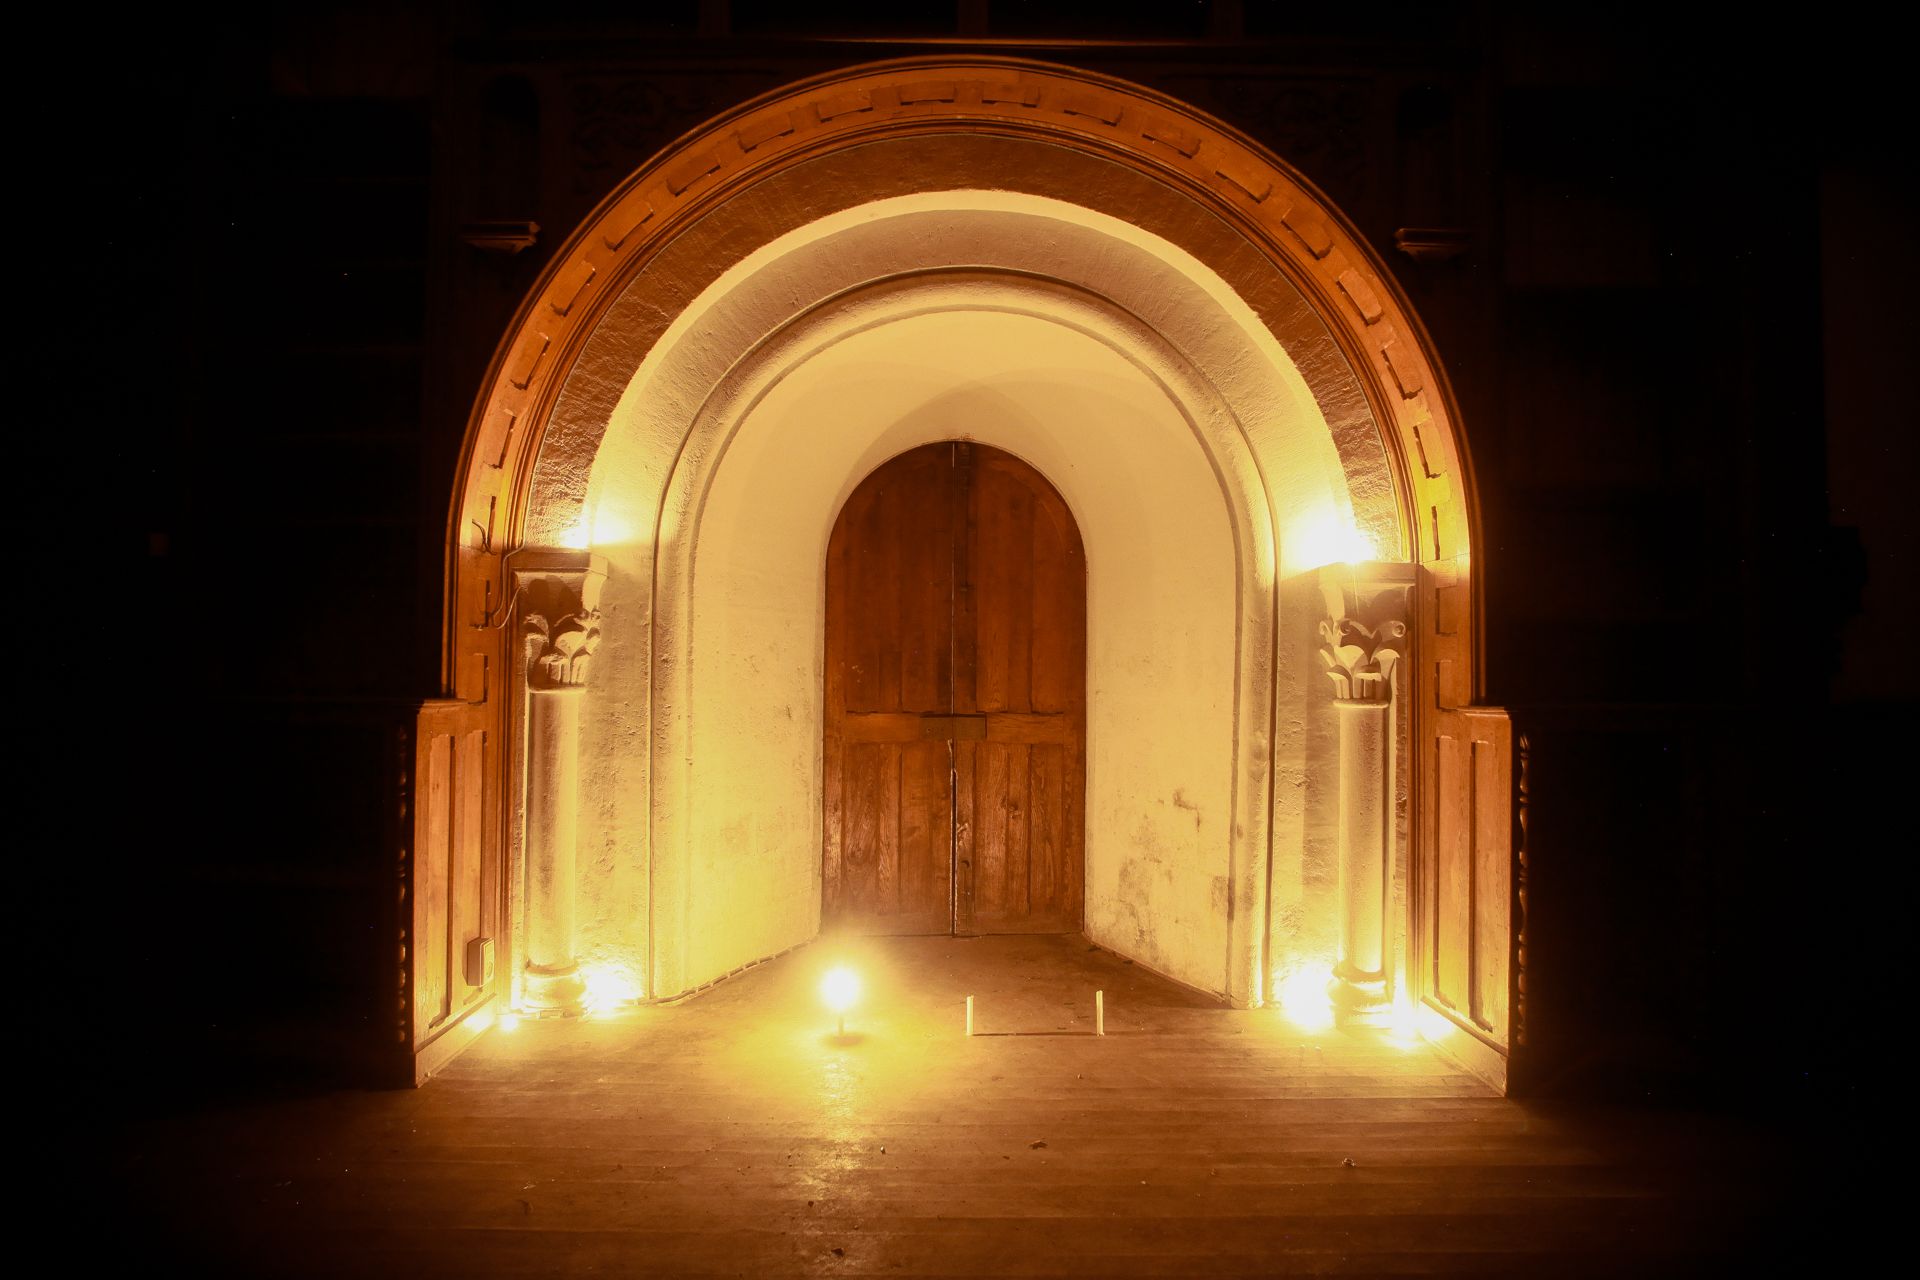
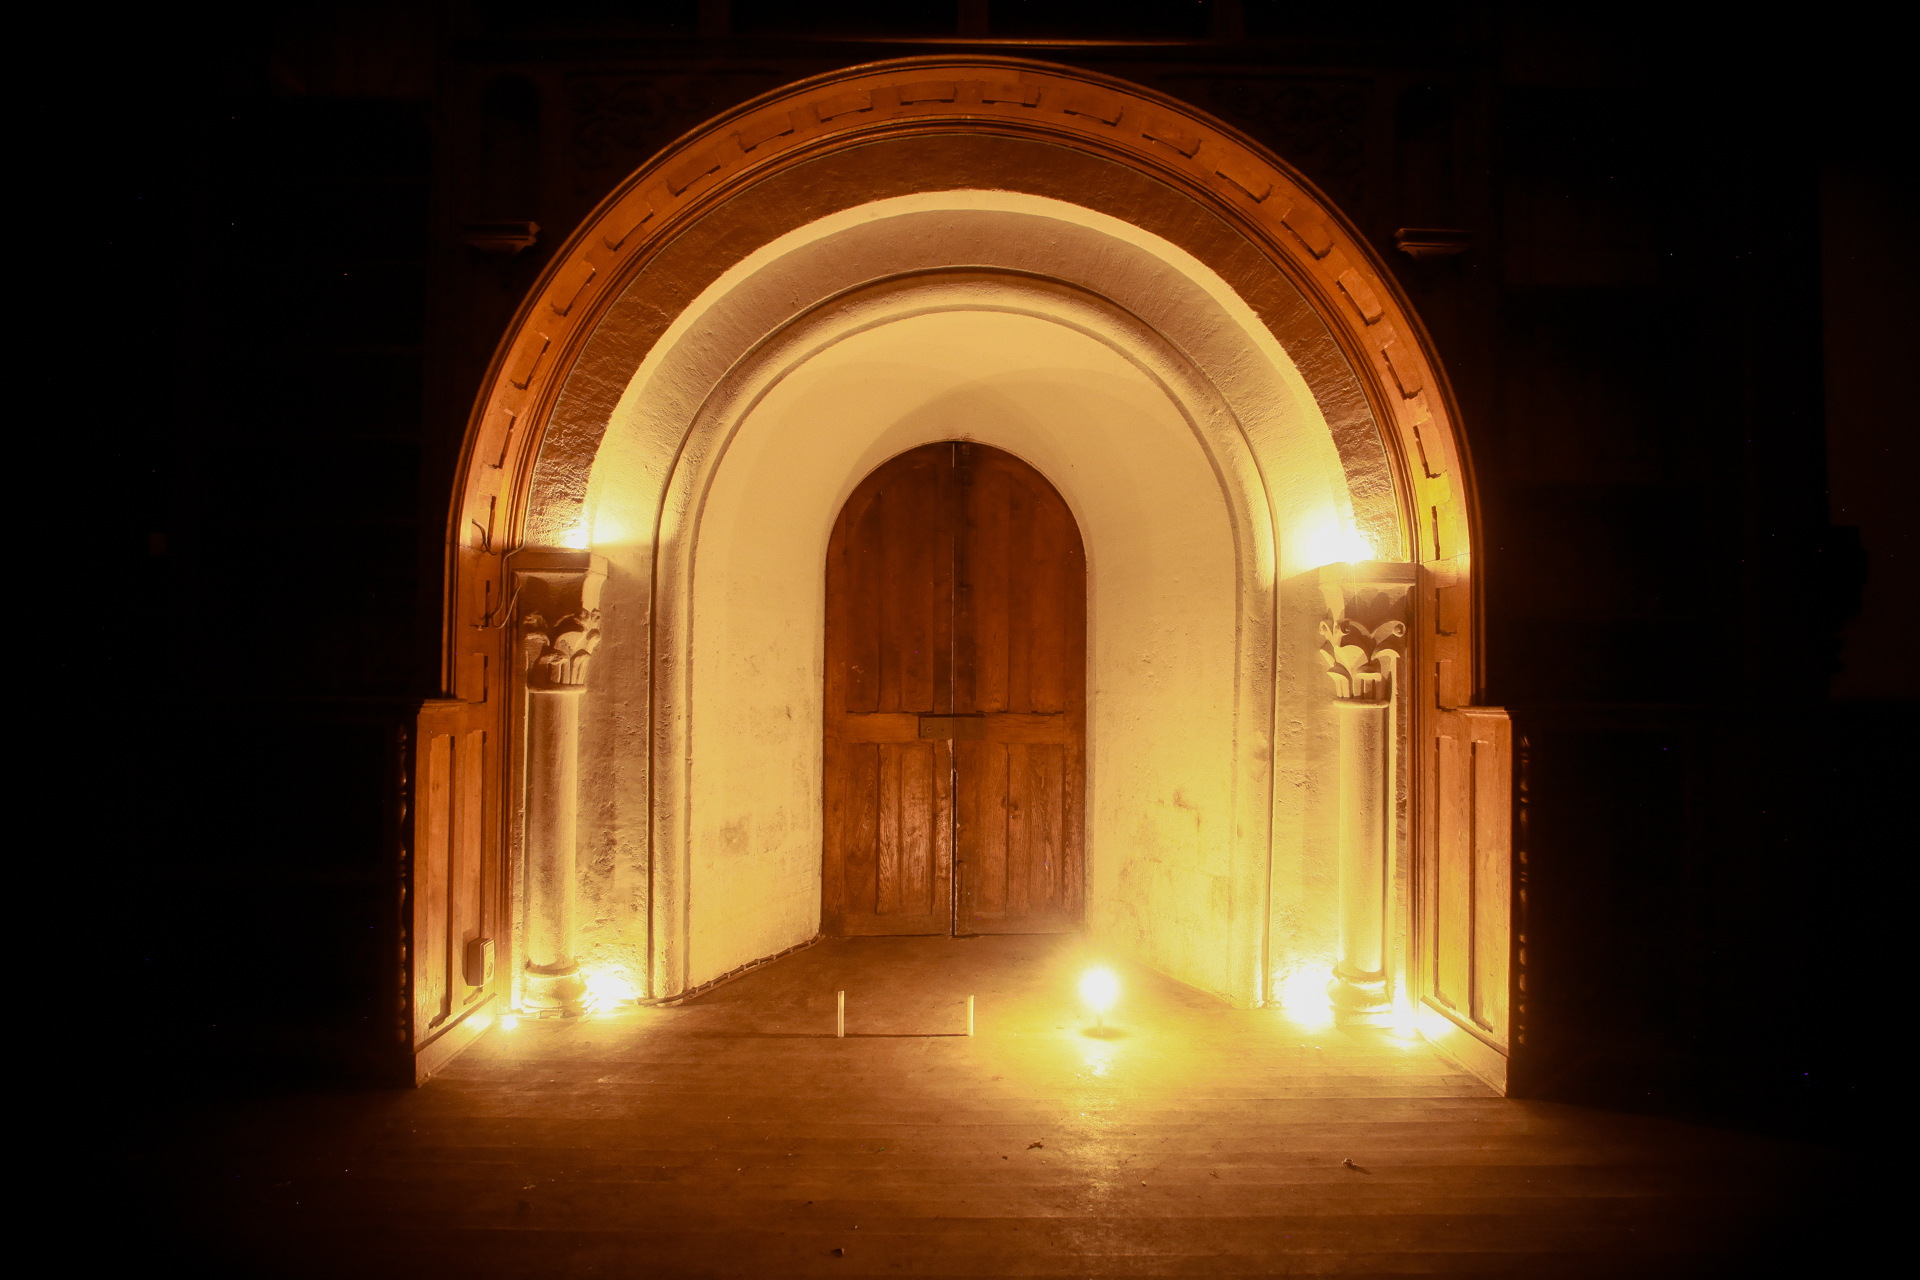
compass room

diff --git a/Assets/Scripts/CompassRoom.cs b/Assets/Scripts/CompassRoom.cs
@@ -1,0 +1,35 @@
+using System.Collections;
+using System.Collections.Generic;
+using UnityEngine;
+
+public class CompassRoom : MonoBehaviour
+{
+
+    public int roomMusicIndex;
+    public Background background;
+
+    AudioTracker at;
+    Global global;
+
+    private void Awake()
+    {
+        at = GameObject.Find("AudioTracker").GetComponent<AudioTracker>();
+        global = GameObject.Find("GLOBAL").GetComponent<Global>();
+    }
+
+    private void Start ()
+    {
+        at.RoomBoard(roomMusicIndex);
+
+        int state = 0;
+        if (global.IsClueValidated("compass1"))
+            state += 1;
+        if (global.IsClueValidated("compass2"))
+            state += 2;
+        if (global.IsClueValidated("compass3"))
+            state += 4;
+
+        background.Swap(state, 0f);
+    }
+
+}

diff --git a/Assets/Scripts/Background.cs b/Assets/Scripts/Background.cs
@@ -36,12 +36,15 @@ public class Background : MonoBehaviour
         sr.color = Color.clear;
         sr.sprite = s;
 
-        for (float f = 0f; f <= 1f; f += fadeInStep)
+        if (fadeInStep > 0f)
         {
-            sr.color = new Color(1, 1, 1, f);
-            yield return new WaitForFixedUpdate();
+            for (float f = 0f; f <= 1f; f += fadeInStep)
+            {
+                sr.color = new Color(1, 1, 1, f);
+                yield return new WaitForFixedUpdate();
+            }
+            sr.color = new Color(1, 1, 1, 1);
         }
-        sr.color = new Color(1, 1, 1, 1);
 
         if (swapTarget)
             swapTarget.sprite = s;

diff --git a/Assets/Scripts/CompassTrigger.cs b/Assets/Scripts/CompassTrigger.cs
@@ -61,7 +61,8 @@ public class CompassTrigger : Trigger
                     break;
             }
 
-            Debug.Log("correct: " + (rotation == correctRotation));
+            if (rotation == correctRotation)
+                Debug.Log("CORRECT");
 
             if (rotation == correctRotation)
                 global.ValidateClue("compass" + compass);

diff --git a/Assets/Scripts/Global.cs b/Assets/Scripts/Global.cs
@@ -57,6 +57,11 @@ public class Global : MonoBehaviour
         }
     }
 
+    public bool IsClueValidated (string id)
+    {
+        return foundClues.Contains(id);
+    }
+
     public int GetProgress ()
     {
         return foundClues.Count + 1;
